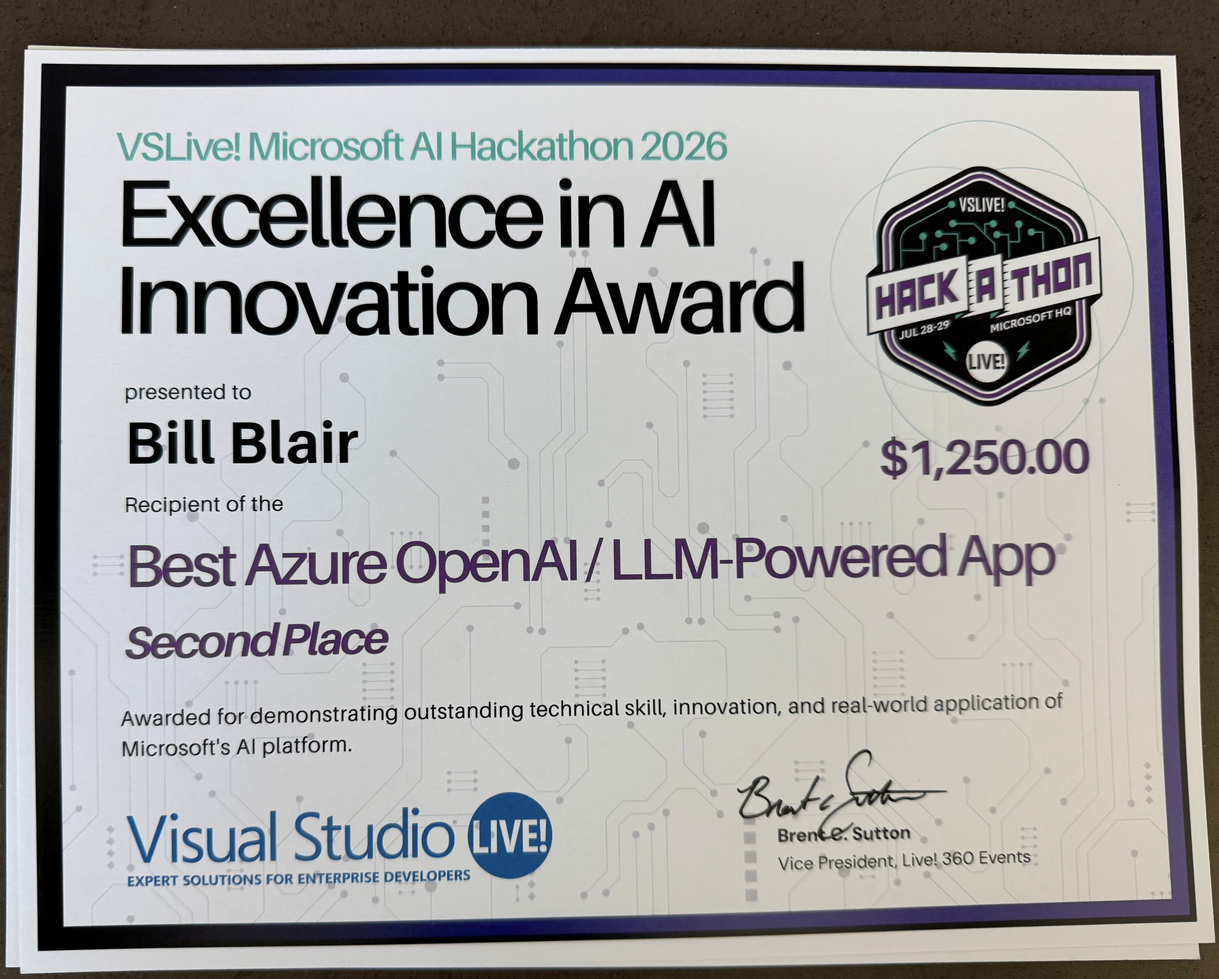
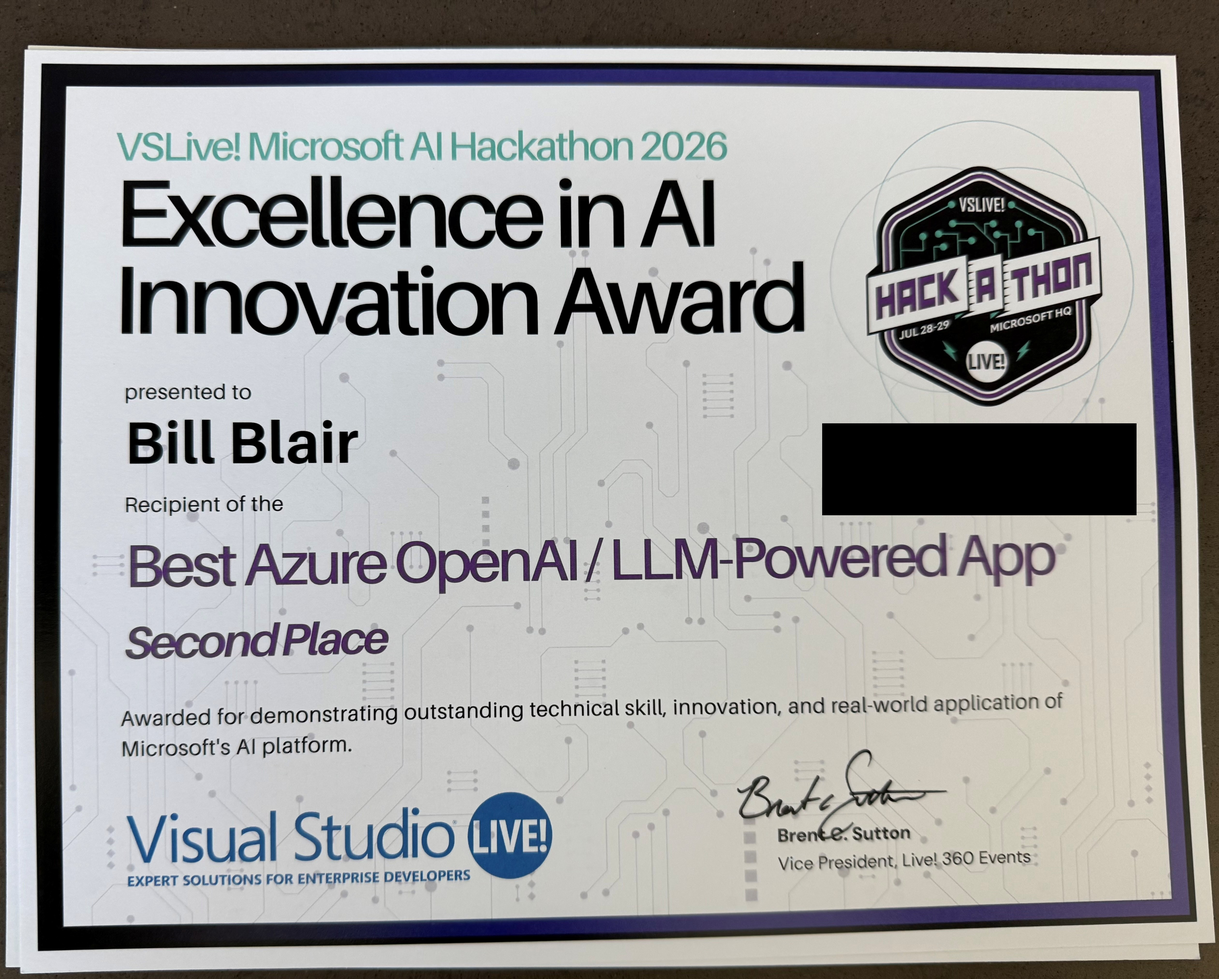
Redact prize amount on award certificate, fix image centering
Draws a black box over the dollar amount on winner/winner.jpg. Also
reverts the image's wrapping <p> from style="text-align: center" back to
align="center" - GitHub's README sanitizer strips inline style
attributes but allows the legacy align attribute, so the style-based
approach silently broke centering on GitHub specifically, the opposite
of the intended fix.

Changed region(s): [[0.654, 0.4047, 0.9343, 0.5293]]

diff --git a/doxygen-docs/html/md__c_l_a_u_d_e.html b/doxygen-docs/html/md__c_l_a_u_d_e.html
@@ -142,8 +142,8 @@ Commands</h1>
 </div><!-- fragment --><p>SDK version is pinned via <span class="tt">global.json</span> (10.0.302, <span class="tt">rollForward: latestFeature</span>) — <span class="tt">dotnet --version</span> should resolve to a compatible 10.x SDK.</p>
 <p>Code reference docs (Doxygen, config in <span class="tt">Doxyfile</span>, output committed under <span class="tt">doxygen-docs/html/</span>):</p>
 <div class="fragment"><div class="line">doxygen Doxyfile   # regenerate; requires Graphviz (dot) on PATH for class/call/caller graphs</div>
-</div><!-- fragment --><p><a class="el" href="_r_e_a_d_m_e_8md.html">README.md</a> (Doxygen's main page, via <span class="tt">USE_MDFILE_AS_MAINPAGE</span>) embeds three plain Markdown images from <span class="tt">img/</span> (<span class="tt">doxygen-preview.png</span>, <span class="tt">coverlet-preview.png</span>, <span class="tt">Jira-Rollup-Report.png</span>). Doxygen has no config option that copies plain-Markdown-referenced images into the output directory <em>preserving their subfolder</em>: <span class="tt">IMAGE_PATH</span> only affects images referenced via its own <span class="tt">\image</span> command, and <span class="tt">HTML_EXTRA_FILES</span> always flattens whatever it's given into the output root, not <span class="tt">img/</span>. So this repo's <span class="tt">img/</span> folder is copied into <span class="tt">doxygen-docs/html/img/</span> by hand (<span class="tt">cp img/*.png doxygen-docs/html/img/</span>) rather than through any Doxyfile setting — that manual copy is what the generated <span class="tt">&lt;img src="img/..."&gt;</span> tags actually resolve against.</p>
-<p>Separately (confirmed by testing, not assumed): Doxygen <b>also</b> auto-copies every locally-referenced Markdown image flat into the output root on <em>every</em> regenerate — this isn't a one-time artifact, it recurs on each <span class="tt">doxygen Doxyfile</span> run regardless of <span class="tt">IMAGE_PATH</span>/<span class="tt">HTML_EXTRA_FILES</span>. Those flat copies (<span class="tt">doxygen-docs/html/doxygen-preview.png</span> etc.) are unused — nothing references them, since the actual <span class="tt">&lt;img src&gt;</span> in the generated pages points at <span class="tt">img/...</span> — so delete them after each regenerate; they're harmless clutter, not a broken build. If new images are ever added to <span class="tt">img/</span> for the README, both steps apply: copy into <span class="tt">doxygen-docs/html/img/</span> by hand, then delete Doxygen's own flat auto-copy of the same file from the output root.</p>
+</div><!-- fragment --><p><a class="el" href="_r_e_a_d_m_e_8md.html">README.md</a> (Doxygen's main page, via <span class="tt">USE_MDFILE_AS_MAINPAGE</span>) embeds four plain Markdown images: three from <span class="tt">img/</span> (<span class="tt">doxygen-preview.png</span>, <span class="tt">coverlet-preview.png</span>, <span class="tt">Jira-Rollup-Report.png</span>) and one from <span class="tt">winner/</span> (<span class="tt">winner.jpg</span>, the hackathon award certificate — <span class="tt">winner</span> is also listed in <span class="tt">IMAGE_PATH</span> for this reason). Doxygen has no config option that copies plain-Markdown-referenced images into the output directory <em>preserving their subfolder</em>: <span class="tt">IMAGE_PATH</span> only affects images referenced via its own <span class="tt">\image</span> command, and <span class="tt">HTML_EXTRA_FILES</span> always flattens whatever it's given into the output root, not <span class="tt">img/</span>/<span class="tt">winner/</span>. So each source folder is copied into the matching <span class="tt">doxygen-docs/html/&lt;folder&gt;/</span> by hand (<span class="tt">cp img/*.png doxygen-docs/html/img/</span>, <span class="tt">cp winner/winner.jpg doxygen-docs/html/winner/</span>) rather than through any Doxyfile setting — those manual copies are what the generated <span class="tt">&lt;img src="img/..."&gt;</span>/<span class="tt">&lt;img src="winner/..."&gt;</span> tags actually resolve against.</p>
+<p>Separately (confirmed by testing, not assumed): Doxygen <b>also</b> auto-copies <em>every</em> locally-referenced Markdown image flat into the output root on <em>every single regenerate</em> — all four, not just whichever one you most recently touched. This isn't a one-time artifact; it recurs on each <span class="tt">doxygen Doxyfile</span> run regardless of <span class="tt">IMAGE_PATH</span>/<span class="tt">HTML_EXTRA_FILES</span>, and it's an easy step to half-do (only cleaning up the image you were focused on and leaving the other three from before) — that happened once already. Those flat copies (<span class="tt">doxygen-docs/html/doxygen-preview.png</span>, <span class="tt">coverlet-preview.png</span>, <span class="tt">Jira-Rollup-Report.png</span>, <span class="tt">winner.jpg</span>, sitting directly in <span class="tt">doxygen-docs/html/</span>) are unused — nothing references them, since the actual <span class="tt">&lt;img src&gt;</span> in the generated pages points at the <span class="tt">img/</span>/<span class="tt">winner/</span> subfolders — so <b>after every regenerate, delete all four flat copies from the output root</b>, not just the one for whatever changed; they're harmless clutter, not a broken build, but let git status catch stragglers before committing. If a new image is ever added to <span class="tt">img/</span> or <span class="tt">winner/</span> for the README, both steps apply for that new file too: copy it into the matching <span class="tt">doxygen-docs/html/&lt;folder&gt;/</span> by hand, then delete Doxygen's own flat auto-copy of it from the output root.</p>
 <p>Scoped to <span class="tt">src/JiraRollupAgent</span>'s and <span class="tt">test/JiraRollupAgent.Tests</span>'s C# source (<span class="tt"><a class="el" href="_r_e_a_d_m_e_8md.html">README.md</a></span>/<span class="tt"><a class="el" href="_c_l_a_u_d_e_8md.html">CLAUDE.md</a></span> were tried as the main page but dropped — a video-camera emoji in <span class="tt"><a class="el" href="_r_e_a_d_m_e_8md.html">README.md</a></span>'s Demo section broke the LaTeX/PDF path we experimented with; irrelevant now since only HTML is generated, <span class="tt">GENERATE_LATEX</span> is <span class="tt">NO</span>). <span class="tt">EXTRACT_ALL</span>/<span class="tt">EXTRACT_PRIVATE</span>/<span class="tt">EXTRACT_STATIC</span> are all <span class="tt">YES</span> since most of the interesting logic (e.g. <span class="tt">SummarizationService</span>'s orchestration methods) is private.</p>
 <h1 class="doxsection"><a class="anchor" id="autotoc_md19"></a>
 Testing</h1>

diff --git a/README.md b/README.md
@@ -159,4 +159,4 @@ report/rollup-report.html
 
 > "Awarded for demonstrating outstanding technical skill, innovation, and real-world application of Microsoft's AI platform."
 
-<p style="text-align: center;"><img src="winner/winner.jpg" width="720" alt="VSLive! Microsoft AI Hackathon 2026 — Excellence in AI Innovation Award, Second Place, Best Azure OpenAI / LLM-Powered App, presented to Bill Blair"></p>
+<p align="center"><img src="winner/winner.jpg" width="720" alt="VSLive! Microsoft AI Hackathon 2026 — Excellence in AI Innovation Award, Second Place, Best Azure OpenAI / LLM-Powered App, presented to Bill Blair"></p>
